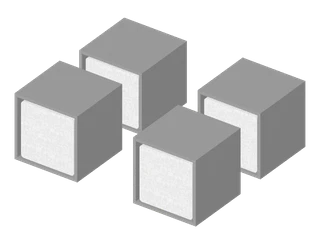
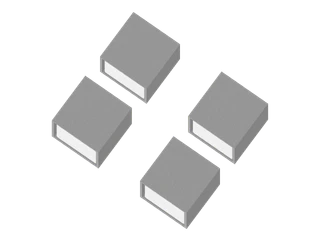
修复(坐凳列表)：保留虚拟灯箱并使用正式单凳编号

diff --git a/apps/web/src/features/workbench/ModelPicker.test.tsx b/apps/web/src/features/workbench/ModelPicker.test.tsx
@@ -1,6 +1,6 @@
 import { act, cleanup, fireEvent, render, screen, within } from '@testing-library/react'
 import { afterEach, describe, expect, it, vi } from 'vitest'
-import { CUSTOM_LOGO_ID, customLogoAsset } from '@store/shared'
+import { CUSTOM_LOGO_ID, customLogoAsset, wallArtAsset } from '@store/shared'
 import type { Asset, AssetCategory, Market, SiStyle } from '@store/shared'
 import { makeAsset } from '../../test-utils/factories.ts'
 import { ModelPicker, pickableSections } from './ModelPicker.tsx'
@@ -212,6 +212,7 @@ it.each([
   '坐凳在%s/%s按单凳、组合、沙发命名排序，保留尺寸和原目录',
   (si, market) => {
     const source = [
+      wallArtAsset(),
       asset('asset-3356837', '休闲沙发', '非标陈列', {
         name: '2米双人沙发',
         siFamily: '非标',
@@ -227,7 +228,7 @@ it.each([
         function: 'seating',
         footprint: { w: 1.301, d: 1.1, h: 0.45 },
       }),
-      asset('asset-90000003', '字母凳', '软装道具', {
+      asset('asset-90000005', '字母凳', '软装道具', {
         siFamily: 'SI2.0',
         function: 'seating',
         footprint: { w: 0.45, d: 0.45, h: 0.45 },
@@ -248,7 +249,7 @@ it.each([
             ['asset-3356837', '双人沙发'],
           ]
         : [
-            ['asset-90000003', '字母凳'],
+            ['asset-90000005', '字母凳'],
             ['asset-15903874', '字母凳组合'],
             ['asset-3356837', '双人沙发'],
           ],
@@ -257,6 +258,9 @@ it.each([
       seats.map((a) => source.find((s) => s.id === a.id)!.footprint),
     )
     expect(source).toEqual(before)
+    expect(
+      pickableSections(source, si, market).find((s) => s.key === 'lightbox')?.assets[0]?.name,
+    ).toBe('灯箱')
   },
 )
 

diff --git a/apps/web/src/features/workbench/seating-options.ts b/apps/web/src/features/workbench/seating-options.ts
@@ -4,14 +4,14 @@ import type { SiStyle } from '@store/shared'
 export const SEATING_NAMES: Record<string, string> = {
   'asset-90000002': '培训坐凳',
   'asset-569180': '培训坐凳组合',
-  'asset-90000003': '字母凳',
+  'asset-90000005': '字母凳',
   'asset-15903874': '字母凳组合',
   'asset-3356837': '双人沙发',
 }
 
 const SEATING_ORDER: Record<SiStyle, readonly string[]> = {
   'SI1.0': ['asset-90000002', 'asset-569180', 'asset-3356837'],
-  'SI2.0': ['asset-90000003', 'asset-15903874', 'asset-3356837'],
+  'SI2.0': ['asset-90000005', 'asset-15903874', 'asset-3356837'],
 }
 
 export function seatingOrder(id: string, si: SiStyle): number {
